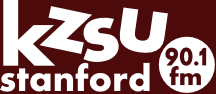
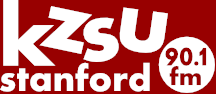
163: use stanford red, eg #980000 as the backgound color
* change base color to stanford red, eg #980000
  * adjust nav3 color for improved contrast against new background
  * update kzsu logo with new background color
  * adjust color of inactive tabs in the tab bar, eg A file page

diff --git a/css/kzsustyle.css b/css/kzsustyle.css
@@ -3,7 +3,7 @@
 /* General styles */
 body {
 	color: black;
-	background-color: #4D0A0A;
+	background-color: #980000;
 }
 a {
 	color: #990010;
@@ -42,7 +42,7 @@ img.right {
 
 /* Header styles */
 .playlistBanner {
-    background-color: #4D0A0A;
+    background-color: #980000;
 }
 
 div.header {
@@ -101,7 +101,7 @@ span.listenLive {
 div.rightStripe {
 	float: right;
 	clear: none;
-	background-color: #4D0A0A;
+	background-color: #980000;
 	display: inline;
 	width: 20px;
 	margin-right: -20px; /* Hide this on non-moz/webkit browsers */
@@ -142,7 +142,7 @@ div.subnavigation {
 
 /* Content Styles */
 DIV.leftNav {
-	background-color: #4D0A0A;
+	background-color: #980000;
 }
 DIV.leftNav A {
 	color: #ffffff;
@@ -163,7 +163,7 @@ div.contentWithoutStripe {
 }
 
 div.messageBanner {
-	border: 3px solid #4D0A0A;
+	border: 3px solid #980000;
 	background-color: #fff;
 	margin-left: auto;
 	margin-right: auto;
@@ -202,10 +202,10 @@ P.zktitle A {
 .nav2sel:link { color: #91a3ce; }
 .nav2sel:visited { color: #91a3ce; }
 .nav2sel:active { color: #ff0000; }
-.nav3:link { color: #d83d04; }
-.nav3:visited { color: #d83d04; }
-.nav3:active { color: #d83d04; }
-.nav3s { color: #d83d04; font-size: 80%; }
+.nav3:link { color: #a3a3a3; }
+.nav3:visited { color: #a3a3a3; }
+.nav3:active { color: #a3a3a3; }
+.nav3s { color: #a3a3a3; font-size: 80%; }
 
 .linkrow {
 	background-color: #6b3333;
@@ -216,7 +216,7 @@ P.zktitle A {
 	background-color: #6b3333;
 }
 .secNorm {
-	background-color: #9b6666;
+	background-color: #980000;
 }
 .secSel {
 	background-color: #6b3333;
